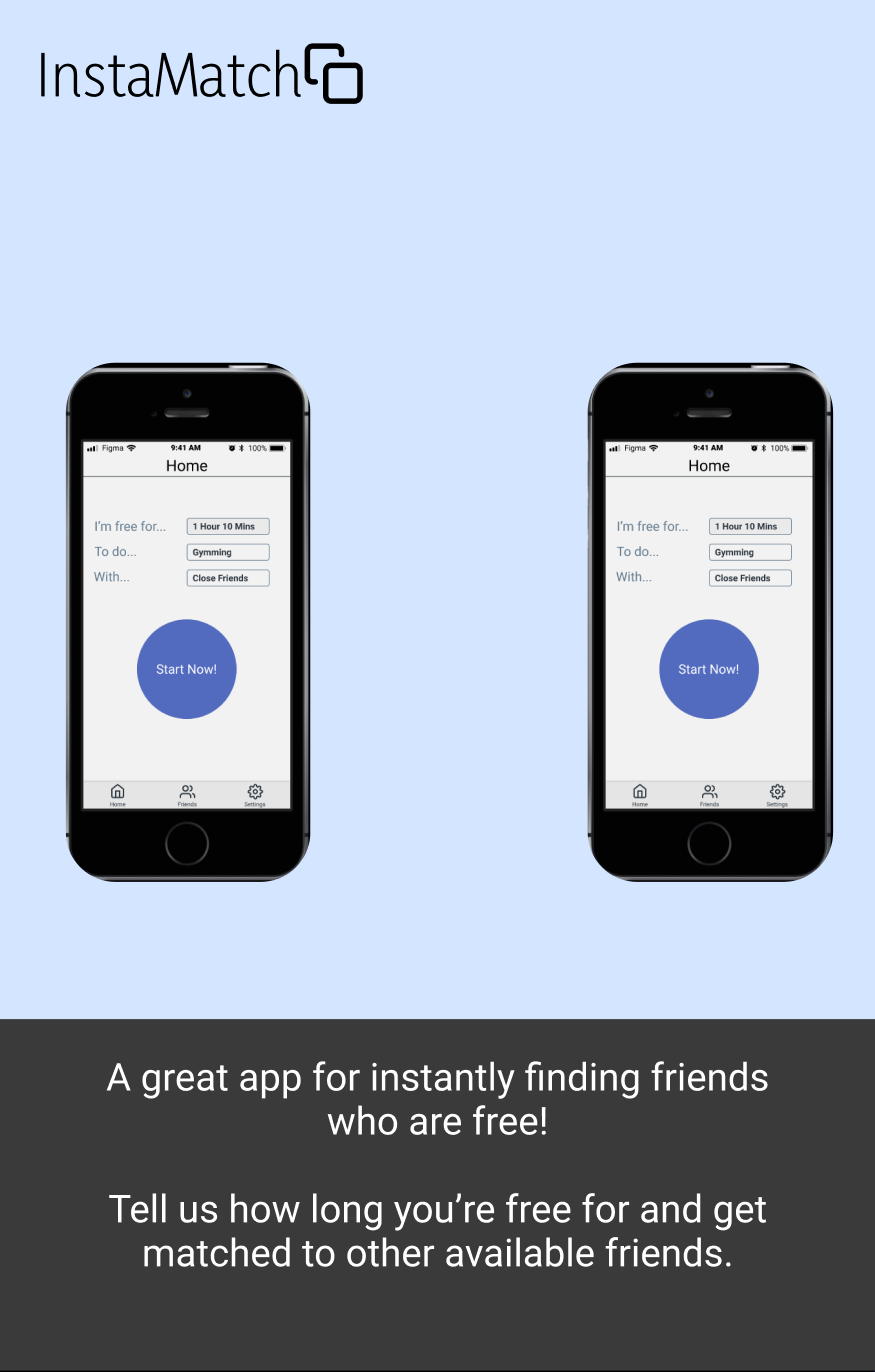
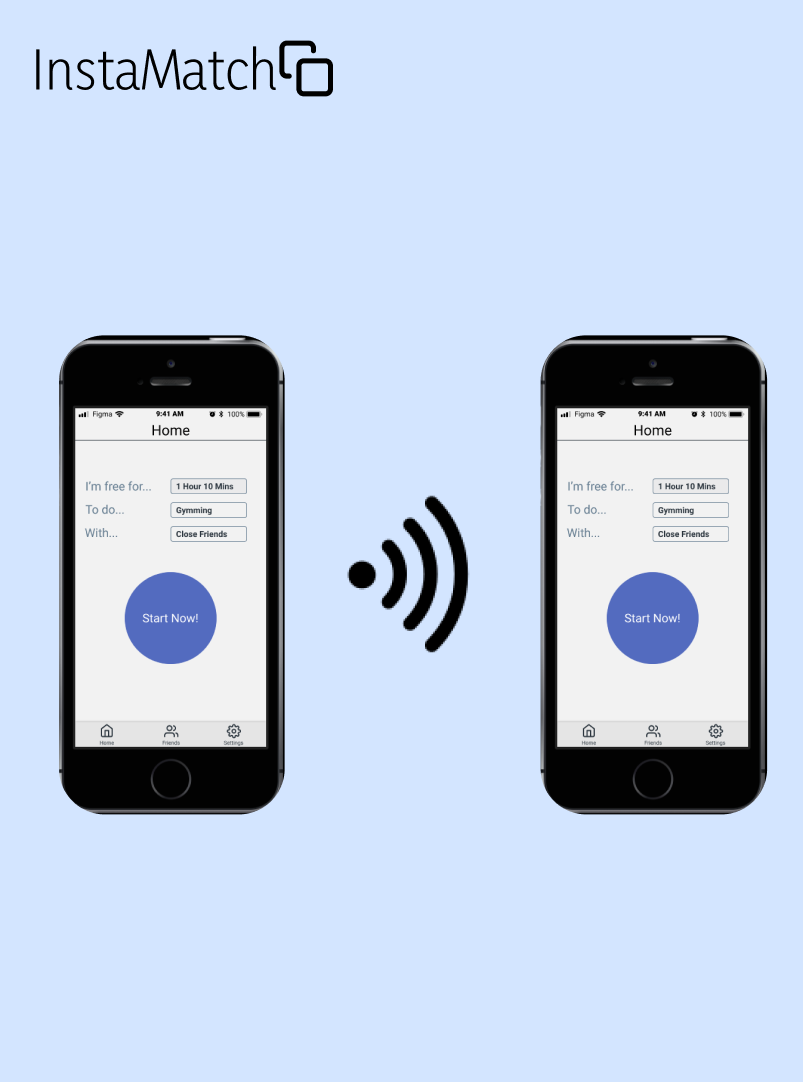
reworked landing page carousel format

diff --git a/instamatch/LandingPage.js b/instamatch/LandingPage.js
@@ -4,7 +4,7 @@ import { Carousel } from '@ant-design/react-native';
 import { ACCENT_COLOR } from './Constants';
 
 const screen = Dimensions.get("window");
-const ratio = screen.width/875; // actual image width
+const ratio = screen.width/803; // actual image width
 
 const LandingPage = () => {
   
@@ -19,18 +19,33 @@ const LandingPage = () => {
             style={styles.image}
             source= {require('./assets/gallery-img.png')}
           />
+          <View style={styles.caption} >
+            <Text style={styles.text}>
+            A great app for instantly finding friends who are free!
+          </Text>
+          </View>
         </View>
         <View style={styles.item}>
           <Image
             style={styles.image}
             source= {require('./assets/gallery-img.png')}
           />
+          <View style={styles.caption}>
+            <Text style={styles.text}>
+              Second image caption
+            </Text>
+          </View>
         </View>
         <View style={styles.item}>
           <Image
             style={styles.image}
             source= {require('./assets/gallery-img.png')}
           />
+          <View style={styles.caption}>
+            <Text style={styles.text}>
+              Third image caption
+            </Text>
+          </View>
         </View>
       </Carousel>
       <View style={styles.buttonGroup}>
@@ -53,15 +68,24 @@ const styles = StyleSheet.create({
   gallery: {
     alignItems: 'center',
     justifyContent: 'center',
-    height: 1372 * ratio,
+    height: screen.height - 200,
     flexGrow: 1,
   },
   item: {
-    backgroundColor: '#ff0000',
+    backgroundColor: '#3A3A3A',
+  },
+  caption:{
+    backgroundColor: '#3A3A3A',
+    height: 200,
+  },
+  text: {
+    color: '#ffffff',
+    margin: 20,
+    fontSize: 18,
   },
   image: {
     width: screen.width,
-    height: 1372 * ratio, // actual image height
+    height: 1082 * ratio, // actual image height
   },
   buttonGroup: {
     display: "flex",
@@ -76,7 +100,7 @@ const styles = StyleSheet.create({
     borderColor: '#000000',
     borderWidth: 2,
     backgroundColor: ACCENT_COLOR,
-    height: screen.height - (1372 * ratio) - 107,
+    height: 100,
     alignItems: "center",
     textAlign: "center",
     justifyContent: 'center',
